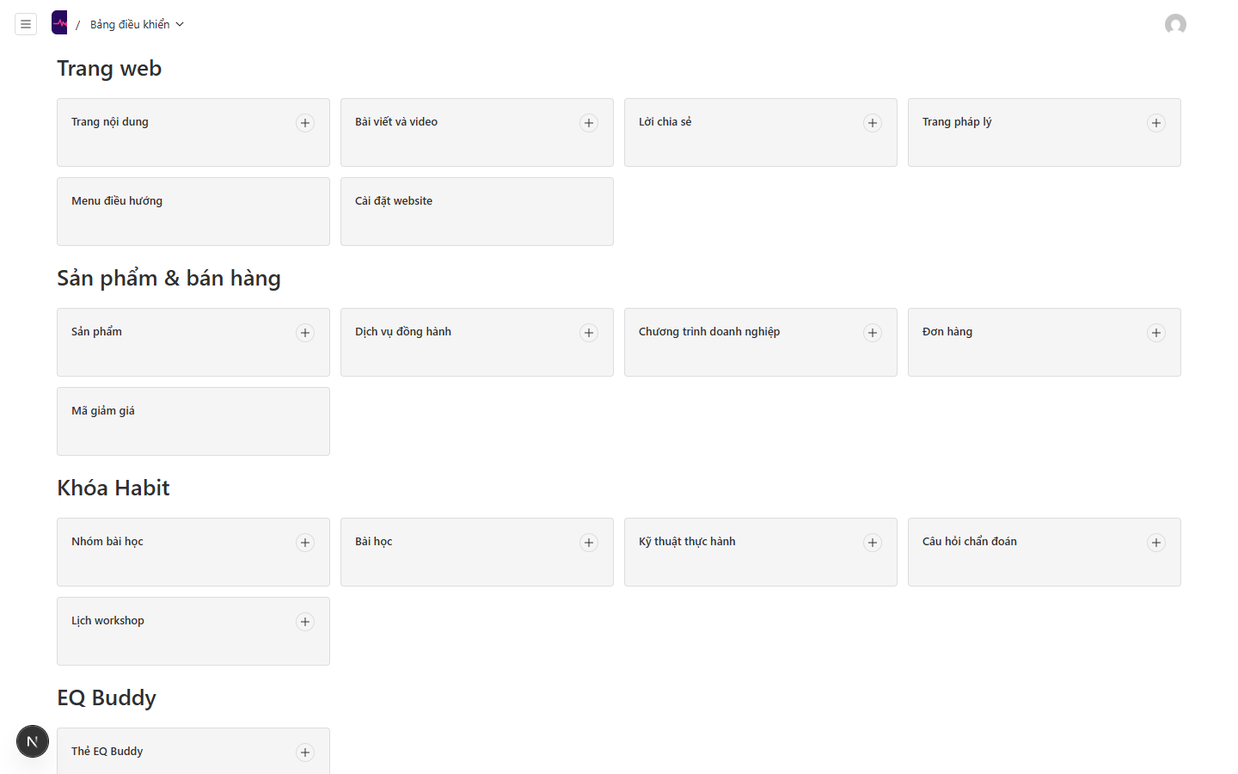
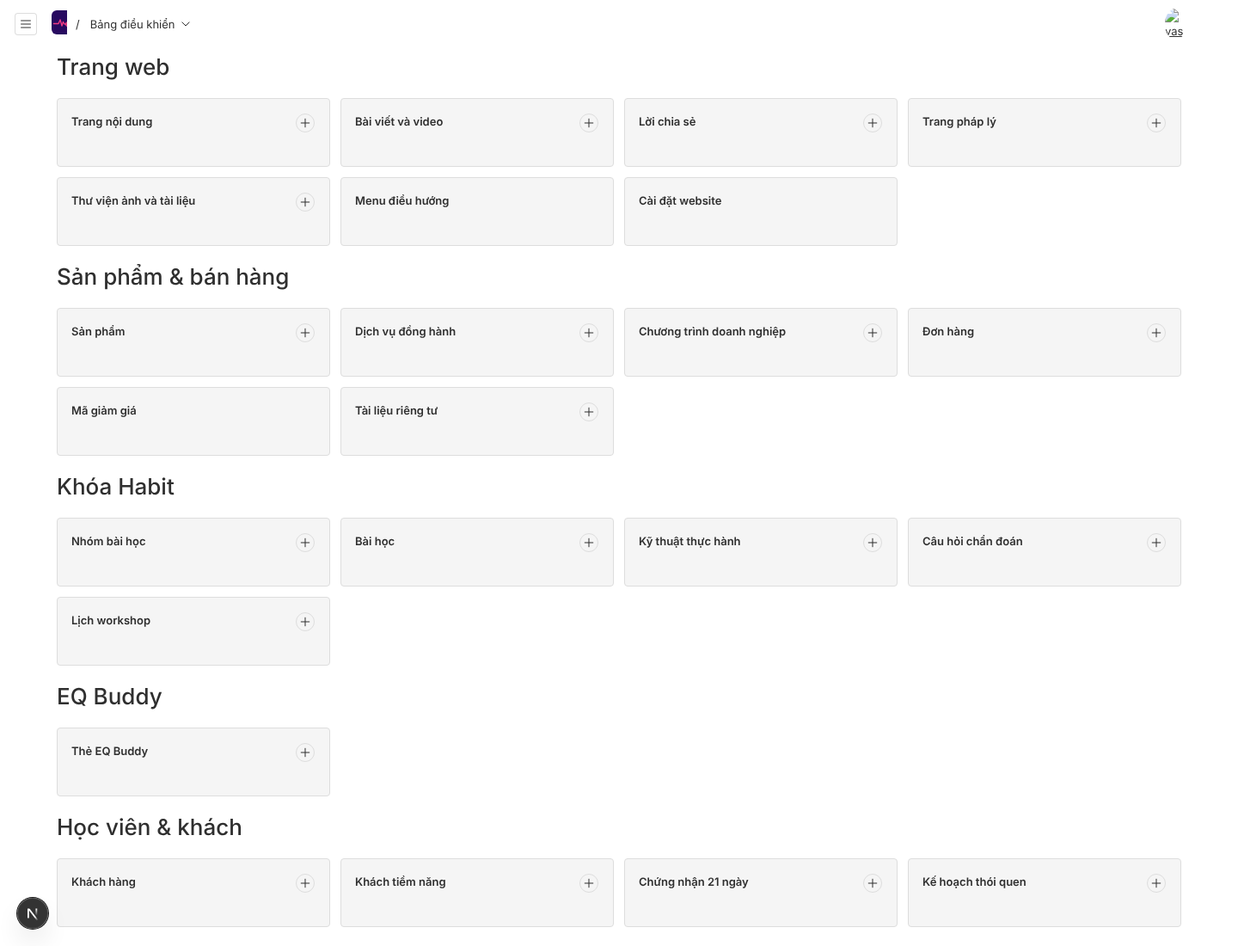
fix(cms): keep Media and private files visible to editors, real owner/editor screenshots (CM-01b)
- Media -> group "Trang web", PrivateFiles -> "Sản phẩm & bán hàng"; no admin.hidden
  (editors upload images and ebook files; hiding a collection also blocks picking existing media)
- nav test: 14 system collections, explicit check that media/privateFiles stay visible
- replace identical screenshots with real owner and editor dashboards
- docs (plan, CMS guide, decisions) follow the new grouping

Claude-Session: https://claude.ai/code/session_01Krq6WRtvEMxH8kuow1WK42

diff --git a/src/payload-types.ts b/src/payload-types.ts
@@ -72,11 +72,13 @@ export interface Config {
     posts: Post;
     testimonials: Testimonial;
     legalPages: LegalPage;
+    media: Media;
     products: Product;
     services: Service;
     programs: Program;
     orders: Order;
     discountCodes: DiscountCode;
+    privateFiles: PrivateFile;
     courseModules: CourseModule;
     lessons: Lesson;
     techniques: Technique;
@@ -88,8 +90,6 @@ export interface Config {
     certificates: Certificate;
     habitPlans: HabitPlan;
     users: User;
-    media: Media;
-    privateFiles: PrivateFile;
     entitlements: Entitlement;
     habitCheckins: HabitCheckin;
     lessonProgress: LessonProgress;
@@ -114,11 +114,13 @@ export interface Config {
     posts: PostsSelect<false> | PostsSelect<true>;
     testimonials: TestimonialsSelect<false> | TestimonialsSelect<true>;
     legalPages: LegalPagesSelect<false> | LegalPagesSelect<true>;
+    media: MediaSelect<false> | MediaSelect<true>;
     products: ProductsSelect<false> | ProductsSelect<true>;
     services: ServicesSelect<false> | ServicesSelect<true>;
     programs: ProgramsSelect<false> | ProgramsSelect<true>;
     orders: OrdersSelect<false> | OrdersSelect<true>;
     discountCodes: DiscountCodesSelect<false> | DiscountCodesSelect<true>;
+    privateFiles: PrivateFilesSelect<false> | PrivateFilesSelect<true>;
     courseModules: CourseModulesSelect<false> | CourseModulesSelect<true>;
     lessons: LessonsSelect<false> | LessonsSelect<true>;
     techniques: TechniquesSelect<false> | TechniquesSelect<true>;
@@ -130,8 +132,6 @@ export interface Config {
     certificates: CertificatesSelect<false> | CertificatesSelect<true>;
     habitPlans: HabitPlansSelect<false> | HabitPlansSelect<true>;
     users: UsersSelect<false> | UsersSelect<true>;
-    media: MediaSelect<false> | MediaSelect<true>;
-    privateFiles: PrivateFilesSelect<false> | PrivateFilesSelect<true>;
     entitlements: EntitlementsSelect<false> | EntitlementsSelect<true>;
     habitCheckins: HabitCheckinsSelect<false> | HabitCheckinsSelect<true>;
     lessonProgress: LessonProgressSelect<false> | LessonProgressSelect<true>;
@@ -2002,6 +2002,10 @@ export interface PayloadLockedDocument {
         value: number | LegalPage;
       } | null)
     | ({
+        relationTo: 'media';
+        value: number | Media;
+      } | null)
+    | ({
         relationTo: 'products';
         value: number | Product;
       } | null)
@@ -2020,6 +2024,10 @@ export interface PayloadLockedDocument {
     | ({
         relationTo: 'discountCodes';
         value: number | DiscountCode;
+      } | null)
+    | ({
+        relationTo: 'privateFiles';
+        value: number | PrivateFile;
       } | null)
     | ({
         relationTo: 'courseModules';
@@ -2064,14 +2072,6 @@ export interface PayloadLockedDocument {
     | ({
         relationTo: 'users';
         value: number | User;
-      } | null)
-    | ({
-        relationTo: 'media';
-        value: number | Media;
-      } | null)
-    | ({
-        relationTo: 'privateFiles';
-        value: number | PrivateFile;
       } | null)
     | ({
         relationTo: 'entitlements';
@@ -2249,6 +2249,27 @@ export interface LegalPagesSelect<T extends boolean = true> {
   updatedAt?: T;
   createdAt?: T;
   _status?: T;
+}
+/**
+ * This interface was referenced by `Config`'s JSON-Schema
+ * via the `definition` "media_select".
+ */
+export interface MediaSelect<T extends boolean = true> {
+  alt?: T;
+  isSample?: T;
+  prefix?: T;
+  _objectKey?: T;
+  updatedAt?: T;
+  createdAt?: T;
+  url?: T;
+  thumbnailURL?: T;
+  filename?: T;
+  mimeType?: T;
+  filesize?: T;
+  width?: T;
+  height?: T;
+  focalX?: T;
+  focalY?: T;
 }
 /**
  * This interface was referenced by `Config`'s JSON-Schema
@@ -2440,6 +2461,27 @@ export interface DiscountCodesSelect<T extends boolean = true> {
   products?: T;
   updatedAt?: T;
   createdAt?: T;
+}
+/**
+ * This interface was referenced by `Config`'s JSON-Schema
+ * via the `definition` "privateFiles_select".
+ */
+export interface PrivateFilesSelect<T extends boolean = true> {
+  description?: T;
+  isSample?: T;
+  prefix?: T;
+  _objectKey?: T;
+  updatedAt?: T;
+  createdAt?: T;
+  url?: T;
+  thumbnailURL?: T;
+  filename?: T;
+  mimeType?: T;
+  filesize?: T;
+  width?: T;
+  height?: T;
+  focalX?: T;
+  focalY?: T;
 }
 /**
  * This interface was referenced by `Config`'s JSON-Schema
@@ -2670,48 +2712,6 @@ export interface UsersSelect<T extends boolean = true> {
         createdAt?: T;
         expiresAt?: T;
       };
-}
-/**
- * This interface was referenced by `Config`'s JSON-Schema
- * via the `definition` "media_select".
- */
-export interface MediaSelect<T extends boolean = true> {
-  alt?: T;
-  isSample?: T;
-  prefix?: T;
-  _objectKey?: T;
-  updatedAt?: T;
-  createdAt?: T;
-  url?: T;
-  thumbnailURL?: T;
-  filename?: T;
-  mimeType?: T;
-  filesize?: T;
-  width?: T;
-  height?: T;
-  focalX?: T;
-  focalY?: T;
-}
-/**
- * This interface was referenced by `Config`'s JSON-Schema
- * via the `definition` "privateFiles_select".
- */
-export interface PrivateFilesSelect<T extends boolean = true> {
-  description?: T;
-  isSample?: T;
-  prefix?: T;
-  _objectKey?: T;
-  updatedAt?: T;
-  createdAt?: T;
-  url?: T;
-  thumbnailURL?: T;
-  filename?: T;
-  mimeType?: T;
-  filesize?: T;
-  width?: T;
-  height?: T;
-  focalX?: T;
-  focalY?: T;
 }
 /**
  * This interface was referenced by `Config`'s JSON-Schema

diff --git a/tests/unit/cms-nav.test.ts b/tests/unit/cms-nav.test.ts
@@ -89,13 +89,13 @@ describe('CMS Admin Navigation & Access (CM-01)', () => {
       ).toBe(true)
     })
 
-    it('tất cả 16 collections thuộc nhóm Hệ thống có admin.hidden là hàm ẩn với editor', async () => {
+    it('tất cả 14 collections thuộc nhóm Hệ thống có admin.hidden là hàm ẩn với editor', async () => {
       const config = await configPromise
       const systemCollections = config.collections.filter(
         (col) => isProjectCollection(col.slug) && col.admin?.group === vi.cms.nav.system,
       )
 
-      expect(systemCollections.length).toBe(16)
+      expect(systemCollections.length).toBe(14)
 
       const editorUser = {
         id: 2,
@@ -120,13 +120,22 @@ describe('CMS Admin Navigation & Access (CM-01)', () => {
       }
     })
 
+    it('Media và Tài liệu riêng tư hiện với editor (cần để tải ảnh, file ebook)', async () => {
+      const config = await configPromise
+      for (const slug of ['media', 'privateFiles']) {
+        const col = config.collections.find((c) => c.slug === slug)!
+        expect(col.admin?.group).not.toBe(vi.cms.nav.system)
+        expect(col.admin?.hidden).toBeFalsy()
+      }
+    })
+
     it('các collection không thuộc nhóm Hệ thống KHÔNG bị ẩn với editor', async () => {
       const config = await configPromise
       const nonSystemCollections = config.collections.filter(
         (col) => isProjectCollection(col.slug) && col.admin?.group !== vi.cms.nav.system,
       )
 
-      expect(nonSystemCollections.length).toBe(19)
+      expect(nonSystemCollections.length).toBe(21)
 
       const editorUser = {
         id: 2,

diff --git a/src/collections/PrivateFiles.ts b/src/collections/PrivateFiles.ts
@@ -1,5 +1,5 @@
 import type { CollectionConfig } from 'payload'
-import { authenticated, isHiddenFromEditor } from '../lib/auth/access'
+import { authenticated } from '../lib/auth/access'
 import { sampleField } from '../fields/content'
 import { vi } from '../lib/i18n/vi'
 
@@ -7,8 +7,7 @@ export const PrivateFiles: CollectionConfig = {
   slug: 'privateFiles',
   labels: { singular: 'Tài liệu riêng tư', plural: 'Tài liệu riêng tư' },
   admin: {
-    group: vi.cms.nav.system,
-    hidden: isHiddenFromEditor,
+    group: vi.cms.nav.commerce,
     useAsTitle: 'filename',
     description: 'Tải tài liệu riêng tư (PDF, ZIP, EPUB). Chỉ giao qua liên kết ký có hạn.',
     defaultColumns: ['filename', 'description', 'filesize', 'createdAt'],

diff --git a/src/collections/Media.ts b/src/collections/Media.ts
@@ -1,5 +1,5 @@
 import type { CollectionConfig } from 'payload'
-import { authenticated, isHiddenFromEditor } from '../lib/auth/access'
+import { authenticated } from '../lib/auth/access'
 import { sampleField } from '../fields/content'
 import { vi } from '../lib/i18n/vi'
 
@@ -7,8 +7,7 @@ export const Media: CollectionConfig = {
   slug: 'media',
   labels: { singular: 'Thư viện ảnh và tài liệu', plural: 'Thư viện ảnh và tài liệu' },
   admin: {
-    group: vi.cms.nav.system,
-    hidden: isHiddenFromEditor,
+    group: vi.cms.nav.website,
     useAsTitle: 'alt',
     description: 'Tải ảnh và tài liệu lên. Luôn thêm mô tả dễ hiểu.',
     defaultColumns: ['alt', 'filename', 'mimeType', 'filesize', 'updatedAt'],

diff --git a/src/payload.config.ts b/src/payload.config.ts
@@ -79,6 +79,7 @@ export default buildConfig({
     Posts,
     Testimonials,
     LegalPages,
+    Media,
 
     // Sản phẩm & bán hàng
     Products,
@@ -86,6 +87,7 @@ export default buildConfig({
     Programs,
     Orders,
     DiscountCodes,
+    PrivateFiles,
 
     // Khóa Habit
     CourseModules,
@@ -105,8 +107,6 @@ export default buildConfig({
 
     // Hệ thống
     Users,
-    Media,
-    PrivateFiles,
     Entitlements,
     HabitCheckins,
     LessonProgress,

diff --git a/docs/HUONG_DAN_CMS.md b/docs/HUONG_DAN_CMS.md
@@ -94,14 +94,14 @@ Hệ thống phân chia tài khoản quản trị thành hai vai trò rõ ràng 
 
 #### Bảng 6 nhóm menu chính
 
-| Tên nhóm                | Mục đích công việc                                                                                             | Các mục hiển thị trong nhóm                                                                                                                                                                                                                                                                                                                              | Ai nhìn thấy?      |
-| :---------------------- | :------------------------------------------------------------------------------------------------------------- | :------------------------------------------------------------------------------------------------------------------------------------------------------------------------------------------------------------------------------------------------------------------------------------------------------------------------------------------------------- | :----------------- |
-| **Trang web**           | Quản lý các trang nội dung công khai, bài viết chia sẻ, cảm nhận của khách hàng, chân trang và cấu hình chung. | • **Trang** (`pages`): Dựng trang bằng Puck editor.<br>• **Bài viết** (`posts`): Blog và bài chia sẻ.<br>• **Lời chia sẻ** (`testimonials`): Đánh giá của học viên.<br>• **Trang pháp lý** (`legalPages`): Điều khoản, bảo mật.<br>• **Menu** (`navigation`): Menu đầu và chân trang.<br>• **Cài đặt website** (`siteSettings`): Ngân hàng VietQR, logo. | `owner` + `editor` |
-| **Sản phẩm & bán hàng** | Quản lý danh mục gói đồng hành, sách điện tử, dịch vụ coaching, đơn hàng và ưu đãi.                            | • **Sản phẩm** (`products`): Công cụ số, gói đồng hành, ebook.<br>• **Dịch vụ đồng hành** (`services`): Coaching 1:1, tư vấn.<br>• **Chương trình doanh nghiệp** (`programs`): Đào tạo B2B.<br>• **Đơn hàng** (`orders`): Theo dõi và xác nhận đơn chuyển khoản.<br>• **Mã giảm giá** (`discountCodes`): Ưu đãi cho chiến dịch.                          | `owner` + `editor` |
-| **Khóa Habit**          | Quản lý toàn bộ nội dung khóa học Habit Hack 1% Better và hoạt động tương tác.                                 | • **Nhóm bài học** (`courseModules`): 7 chặng học tập.<br>• **Bài học** (`lessons`): 20 bài học kèm video Bunny Stream.<br>• **Kỹ thuật** (`techniques`): 11 kỹ thuật can thiệp hành vi.<br>• **Câu hỏi quiz** (`diagnosticQuestions`): 16 tình huống trì hoãn.<br>• **Lịch workshop** (`workshops`): Lịch học Zoom và đường dẫn.                        | `owner` + `editor` |
-| **EQ Buddy**            | Quản lý bộ 26 thẻ nhận diện và điều hòa cảm xúc.                                                               | • **Thẻ EQ** (`eqCards`): 26 thẻ bài, thông điệp, câu chuyện, câu hỏi đào sâu và xuất mã QR in ấn.                                                                                                                                                                                                                                                       | `owner` + `editor` |
-| **Học viên & khách**    | Chăm sóc học viên, theo dõi quá trình rèn luyện và cấp chứng nhận hoàn thành.                                  | • **Khách hàng** (`customers`): Danh sách học viên và tài khoản.<br>• **Khách tiềm năng** (`leads`): Thu thập email từ form, xuất CSV.<br>• **Chứng nhận** (`certificates`): Chứng nhận 21 ngày hoàn thành.<br>• **Kế hoạch thói quen** (`habitPlans`): Kế hoạch Habit Loop 5 phút.                                                                      | `owner` + `editor` |
-| **Hệ thống**            | Khu vực kỹ thuật dành riêng cho Chủ dự án và IT: phân quyền, kiểm tra lỗi, đối soát thanh toán.                | • Quản trị viên, Media, Quyền truy cập, Check-in, Tiến độ bài học, Kết quả quiz, Thẻ đã lưu, Sự kiện thanh toán, Nhật ký kiểm toán, Nhắc dùng thử, Nhắc workshop, Nhắc tracker, Mã OTP, Giới hạn tần suất, Lịch sử dùng thử, Tài liệu riêng tư (16 collections).                                                                                         | **Chỉ `owner`**    |
+| Tên nhóm                | Mục đích công việc                                                                                             | Các mục hiển thị trong nhóm                                                                                                                                                                                                                                                                                                                                            | Ai nhìn thấy?      |
+| :---------------------- | :------------------------------------------------------------------------------------------------------------- | :--------------------------------------------------------------------------------------------------------------------------------------------------------------------------------------------------------------------------------------------------------------------------------------------------------------------------------------------------------------------- | :----------------- |
+| **Trang web**           | Quản lý các trang nội dung công khai, bài viết chia sẻ, cảm nhận của khách hàng, chân trang và cấu hình chung. | • **Trang** (`pages`): Dựng trang bằng Puck editor.<br>• **Bài viết** (`posts`): Blog và bài chia sẻ.<br>• **Lời chia sẻ** (`testimonials`): Đánh giá của học viên.<br>• **Trang pháp lý** (`legalPages`): Điều khoản, bảo mật.<br>• **Menu** (`navigation`): Menu đầu và chân trang.<br>• **Cài đặt website** (`siteSettings`): Ngân hàng VietQR, logo.               | `owner` + `editor` |
+| **Sản phẩm & bán hàng** | Quản lý danh mục gói đồng hành, sách điện tử, dịch vụ coaching, đơn hàng và ưu đãi.                            | • **Sản phẩm** (`products`): Công cụ số, gói đồng hành, ebook.<br>• **Dịch vụ đồng hành** (`services`): Coaching 1:1, tư vấn.<br>• **Chương trình doanh nghiệp** (`programs`): Đào tạo B2B.<br>• **Đơn hàng** (`orders`): Theo dõi và xác nhận đơn chuyển khoản.<br>• **Mã giảm giá** (`discountCodes`): Ưu đãi cho chiến dịch.                                        | `owner` + `editor` |
+| **Khóa Habit**          | Quản lý toàn bộ nội dung khóa học Habit Hack 1% Better và hoạt động tương tác.                                 | • **Nhóm bài học** (`courseModules`): 7 chặng học tập.<br>• **Bài học** (`lessons`): 20 bài học kèm video Bunny Stream.<br>• **Kỹ thuật** (`techniques`): 11 kỹ thuật can thiệp hành vi.<br>• **Câu hỏi quiz** (`diagnosticQuestions`): 16 tình huống trì hoãn.<br>• **Lịch workshop** (`workshops`): Lịch học Zoom và đường dẫn.                                      | `owner` + `editor` |
+| **EQ Buddy**            | Quản lý bộ 26 thẻ nhận diện và điều hòa cảm xúc.                                                               | • **Thẻ EQ** (`eqCards`): 26 thẻ bài, thông điệp, câu chuyện, câu hỏi đào sâu và xuất mã QR in ấn.                                                                                                                                                                                                                                                                     | `owner` + `editor` |
+| **Học viên & khách**    | Chăm sóc học viên, theo dõi quá trình rèn luyện và cấp chứng nhận hoàn thành.                                  | • **Khách hàng** (`customers`): Danh sách học viên và tài khoản.<br>• **Khách tiềm năng** (`leads`): Thu thập email từ form, xuất CSV.<br>• **Chứng nhận** (`certificates`): Chứng nhận 21 ngày hoàn thành.<br>• **Kế hoạch thói quen** (`habitPlans`): Kế hoạch Habit Loop 5 phút.                                                                                    | `owner` + `editor` |
+| **Hệ thống**            | Khu vực kỹ thuật dành riêng cho Chủ dự án và IT: phân quyền, kiểm tra lỗi, đối soát thanh toán.                | • Quản trị viên, Quyền truy cập, Check-in, Tiến độ bài học, Kết quả quiz, Thẻ đã lưu, Sự kiện thanh toán, Nhật ký kiểm toán, Nhắc dùng thử, Nhắc workshop, Nhắc tracker, Mã OTP, Giới hạn tần suất, Lịch sử dùng thử (14 collections). _Thư viện ảnh và tài liệu_ nằm ở nhóm **Trang web**, _Tài liệu riêng tư_ ở nhóm **Sản phẩm & bán hàng** – editor vẫn dùng được. | **Chỉ `owner`**    |
 
 #### Bảo vệ an toàn: Ẩn mục kỹ thuật với vai trò Biên tập (`editor`)
 
@@ -306,7 +306,7 @@ Tại trường **Trạng thái bán** (`saleStatus`), Hana có thể chọn 1 t
 
 **Các bước thực hiện**:
 
-1. Ở cột menu bên trái, tìm nhóm **Bán hàng**, bấm vào **Tài liệu riêng tư**.
+1. Ở cột menu bên trái, tìm nhóm **Sản phẩm & bán hàng**, bấm vào **Tài liệu riêng tư**.
 2. Bấm nút **Tạo mới** ở góc trên bên phải.
 3. Bấm nút tải tệp và chọn tệp PDF (hoặc ZIP, EPUB) từ máy tính của bạn.
 4. Nhập tóm tắt vào ô **Mô tả tài liệu** (ví dụ: _Ebook và bộ công cụ EQ bản chính thức PDF_).

diff --git a/docs/decisions/CM-01.md b/docs/decisions/CM-01.md
@@ -10,7 +10,7 @@
 - **Vấn đề ban đầu**: Hệ thống có 35 collections và 2 globals. Nếu để mặc định, Payload hiển thị một danh sách phẳng dài hoặc gom nhóm lộn xộn, khiến Hana (người không có chuyên môn kỹ thuật) bị choáng ngợp và khó tìm thấy nội dung cần sửa hàng ngày.
 - **Phân vai người dùng**:
   - `owner` (Hana / Chủ dự án): Toàn quyền truy cập, cần thấy đầy đủ các nhóm nghiệp vụ và nhóm kỹ thuật khi cần phối hợp xử lý sự cố cùng kỹ sư IT.
-  - `editor` (Cộng sự / Biên tập viên): Chỉ phụ trách viết bài, đăng lời chia sẻ, cập nhật thông tin khóa học; không được và không nên thấy các bảng kỹ thuật (sự kiện thanh toán, nhật ký kiểm toán, token OTP, tài liệu riêng tư...).
+  - `editor` (Cộng sự / Biên tập viên): Chỉ phụ trách viết bài, đăng lời chia sẻ, cập nhật thông tin khóa học; không được và không nên thấy các bảng kỹ thuật (sự kiện thanh toán, nhật ký kiểm toán, token OTP...).
 - **Mục tiêu**:
   1. Tổ chức menu bên trái thành **6 nhóm nghiệp vụ rõ ràng** theo thứ tự ưu tiên làm việc của Hana.
   2. Ẩn toàn bộ 16 collections thuộc nhóm kỹ thuật khỏi menu đối với vai trò `editor` bằng `admin.hidden` (không thay đổi logic phân quyền API `access`).
@@ -23,14 +23,14 @@
 
 Các tên nhóm được khai báo tập trung trong `src/lib/i18n/vi.ts` (khối `cms.nav`):
 
-| STT | Tên nhóm (`vi.cms.nav`) | Key         | Danh sách Collections & Globals                                                                                                                                                                                                                                          | Vai trò hiển thị   |
-| :-- | :---------------------- | :---------- | :----------------------------------------------------------------------------------------------------------------------------------------------------------------------------------------------------------------------------------------------------------------------- | :----------------- |
-| 1   | **Trang web**           | `website`   | `Pages`, `Posts`, `Testimonials`, `LegalPages`, `Navigation` (global), `SiteSettings` (global)                                                                                                                                                                           | `owner` + `editor` |
-| 2   | **Sản phẩm & bán hàng** | `commerce`  | `Products`, `Services`, `Programs`, `Orders`, `DiscountCodes`                                                                                                                                                                                                            | `owner` + `editor` |
-| 3   | **Khóa Habit**          | `habit`     | `CourseModules`, `Lessons`, `Techniques`, `DiagnosticQuestions`, `Workshops`                                                                                                                                                                                             | `owner` + `editor` |
-| 4   | **EQ Buddy**            | `eq`        | `EqCards`                                                                                                                                                                                                                                                                | `owner` + `editor` |
-| 5   | **Học viên & khách**    | `customers` | `Customers`, `Leads`, `Certificates`, `HabitPlans`                                                                                                                                                                                                                       | `owner` + `editor` |
-| 6   | **Hệ thống**            | `system`    | `Users`, `Media`, `PrivateFiles`, `Entitlements`, `HabitCheckins`, `LessonProgress`, `DiagnosticResults`, `SavedCards`, `PaymentEvents`, `AuditLogs`, `TrialReminders`, `WorkshopReminders`, `TrackerNudges`, `OtpCodes`, `RateLimitHits`, `TrialUsage` (16 collections) | **Chỉ `owner`**    |
+| STT | Tên nhóm (`vi.cms.nav`) | Key         | Danh sách Collections & Globals                                                                                                                                                                                                                                                                                                                                                                                                          | Vai trò hiển thị   |
+| :-- | :---------------------- | :---------- | :--------------------------------------------------------------------------------------------------------------------------------------------------------------------------------------------------------------------------------------------------------------------------------------------------------------------------------------------------------------------------------------------------------------------------------------- | :----------------- |
+| 1   | **Trang web**           | `website`   | `Pages`, `Posts`, `Testimonials`, `LegalPages`, `Navigation` (global), `SiteSettings` (global)                                                                                                                                                                                                                                                                                                                                           | `owner` + `editor` |
+| 2   | **Sản phẩm & bán hàng** | `commerce`  | `Products`, `Services`, `Programs`, `Orders`, `DiscountCodes`                                                                                                                                                                                                                                                                                                                                                                            | `owner` + `editor` |
+| 3   | **Khóa Habit**          | `habit`     | `CourseModules`, `Lessons`, `Techniques`, `DiagnosticQuestions`, `Workshops`                                                                                                                                                                                                                                                                                                                                                             | `owner` + `editor` |
+| 4   | **EQ Buddy**            | `eq`        | `EqCards`                                                                                                                                                                                                                                                                                                                                                                                                                                | `owner` + `editor` |
+| 5   | **Học viên & khách**    | `customers` | `Customers`, `Leads`, `Certificates`, `HabitPlans`                                                                                                                                                                                                                                                                                                                                                                                       | `owner` + `editor` |
+| 6   | **Hệ thống**            | `system`    | `Users`, `Entitlements`, `HabitCheckins`, `LessonProgress`, `DiagnosticResults`, `SavedCards`, `PaymentEvents`, `AuditLogs`, `TrialReminders`, `WorkshopReminders`, `TrackerNudges`, `OtpCodes`, `RateLimitHits`, `TrialUsage` (14 collections). **QA sửa (CM-01b):** `Media` → nhóm Trang web, `PrivateFiles` → nhóm Sản phẩm & bán hàng, không ẩn với editor (editor cần tải ảnh, file ebook; ẩn collection cũng chặn chọn ảnh có sẵn) | **Chỉ `owner`**    |
 
 Thứ tự trong mảng `collections` của file `src/payload.config.ts` được sắp xếp lại đúng theo 6 nhóm trên, đảm bảo menu hiển thị tự nhiên từ trên xuống dưới.
 

diff --git a/docs/plan/CMS_UX.md b/docs/plan/CMS_UX.md
@@ -24,14 +24,14 @@
 
 ## 3. Cấu trúc menu đề xuất (CM-01)
 
-| Nhóm (thứ tự)              | Mục                                                                                                                                                                     | `editor` thấy?                                                       |
-| -------------------------- | ----------------------------------------------------------------------------------------------------------------------------------------------------------------------- | -------------------------------------------------------------------- |
-| **Trang web**              | Trang (Puck), Bài viết & video, Lời chia sẻ, Trang pháp lý, Menu (global), Cài đặt site (global)                                                                        | Có (Cài đặt site: chỉ owner sửa phần thanh toán – giữ quyền hiện có) |
-| **Sản phẩm & bán hàng**    | Sản phẩm, Dịch vụ đồng hành, Chương trình doanh nghiệp, Đơn hàng, Mã giảm giá                                                                                           | Có (Đơn hàng: theo quyền hiện có)                                    |
-| **Khóa Habit**             | Nhóm bài học, Bài học, Kỹ thuật, Câu hỏi quiz, Lịch workshop                                                                                                            | Có                                                                   |
-| **EQ Buddy**               | Thẻ EQ                                                                                                                                                                  | Có                                                                   |
-| **Học viên & khách**       | Khách hàng, Lead, Chứng nhận, Kế hoạch thói quen                                                                                                                        | Có (cảm xúc / ghi chú vẫn ẩn với editor)                             |
-| **Hệ thống** (cuối, owner) | Quản trị viên, Media, Tài liệu riêng tư, Quyền truy cập, Check-in, Tiến độ bài học, Kết quả quiz, Thẻ đã lưu, Sự kiện thanh toán, Nhật ký, Nhắc dùng thử, Nhắc workshop | **Không** (ẩn bằng `admin.hidden` theo vai trò)                      |
+| Nhóm (thứ tự)              | Mục                                                                                                                                           | `editor` thấy?                                                       |
+| -------------------------- | --------------------------------------------------------------------------------------------------------------------------------------------- | -------------------------------------------------------------------- |
+| **Trang web**              | Trang (Puck), Bài viết & video, Lời chia sẻ, Trang pháp lý, Thư viện ảnh, Thư viện ảnh, Menu (global), Cài đặt site (global)                  | Có (Cài đặt site: chỉ owner sửa phần thanh toán – giữ quyền hiện có) |
+| **Sản phẩm & bán hàng**    | Sản phẩm, Dịch vụ đồng hành, Chương trình doanh nghiệp, Đơn hàng, Mã giảm giá, Tài liệu riêng tư                                              | Có (Đơn hàng: theo quyền hiện có)                                    |
+| **Khóa Habit**             | Nhóm bài học, Bài học, Kỹ thuật, Câu hỏi quiz, Lịch workshop                                                                                  | Có                                                                   |
+| **EQ Buddy**               | Thẻ EQ                                                                                                                                        | Có                                                                   |
+| **Học viên & khách**       | Khách hàng, Lead, Chứng nhận, Kế hoạch thói quen                                                                                              | Có (cảm xúc / ghi chú vẫn ẩn với editor)                             |
+| **Hệ thống** (cuối, owner) | Quản trị viên, Quyền truy cập, Check-in, Tiến độ bài học, Kết quả quiz, Thẻ đã lưu, Sự kiện thanh toán, Nhật ký, Nhắc dùng thử, Nhắc workshop | **Không** (ẩn bằng `admin.hidden` theo vai trò)                      |
 
 Mỗi collection: `admin.description` 1 câu tiếng Việt "dùng để làm gì", `defaultColumns` hữu ích, `listSearchableFields`, `useAsTitle` có nghĩa. Thứ tự trong `payload.config.ts` = thứ tự menu.
 
